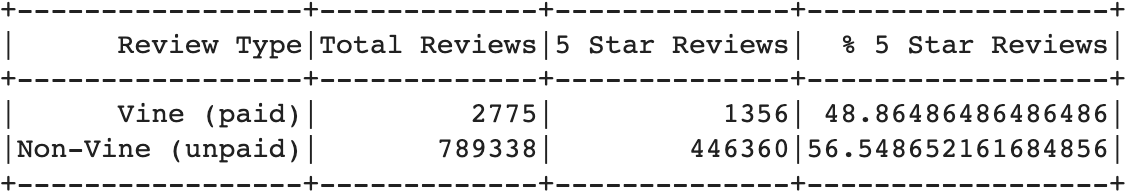
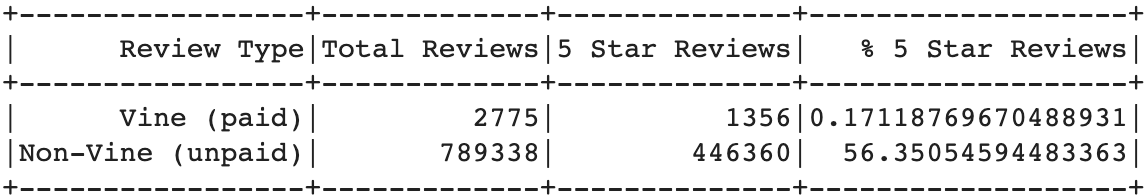
adding ipynb files

diff --git a/README.md b/README.md
@@ -1,26 +1,29 @@
 # Amazon_Vine_Analysis
 
 ## Overview of Project
-This project builds a business proposal for a bike sharing program based on New York City's Citibike August 2019 data. 
+This project analyzes the reveiws on furniture products provided by Amazon Vine
 
 ### Purpose
 
-**Analytical:** The project analyzes the profitability of the launching such a program in a NYC, based on busisiest locations, peak hours and gender breakdown.
+**Analytical:** The project analyzes the reviews left by paying and non-paying members on furniture products, to see if the rating depends on the type of customer giving it. 
 
-**Technical:** The project employs Tableau Public & Tableau Desktop
+**Technical:** The project utilizes Google Colaboratory to pull data from Amazon's S3
 
 
 ## Results
 
-<p align="center">
-<img src="/Resources/helpful_summary_df.png" width="55%" height="35%">
-</p>
-<p align="center"> Table 1. Summary of "Helpful" Votes </p>
+It is important to compare the breakdown of reviews voted helpful with all reviews to understand the customer perception and bias in the data. 
 
+<p align="center"><span class="emphasized"> Table 1. Summary of "Helpful" Votes </span></p>
+<p align="center">
+<img src="/Resources/helpful_summary_df.png" width="60%" height="30%">
+</p>
+
+<p align="center"><span class="emphasized"> Table 2. Summary of All Votes </span></p>
 <p align="center">
 <img src="/Resources/all_summary_df.png" width="60%" height="30%">
 </p>
-<p align="center"> Table 2. Summary of All Votes </p>
+
 
 #### 1. How many Vine reviews and non-Vine reviews were there?
 In total there are 792,113 reviews, of which 2,775 are Vine and 789,338 are non-Vine. 
@@ -30,8 +33,8 @@ However, among the "voted" reveiws, there here are 130 Vine reviews and 16,820 n
 #### 2. How many Vine reviews were 5 stars? How many non-Vine reviews were 5 stars?
 There were 1,356 5-star Vine reviews and 446,360 5-star non-Vine reviews
 
-
 #### 3. What percentage of Vine reviews were 5 stars? What percentage of non-Vine reviews were 5 stars?
+Only 0.17% of the total Vine reviews are rated 5 stars, whereas 56.35% of all non-Vine reviews are rated 5 stars. 
 
 ## Summary
 
